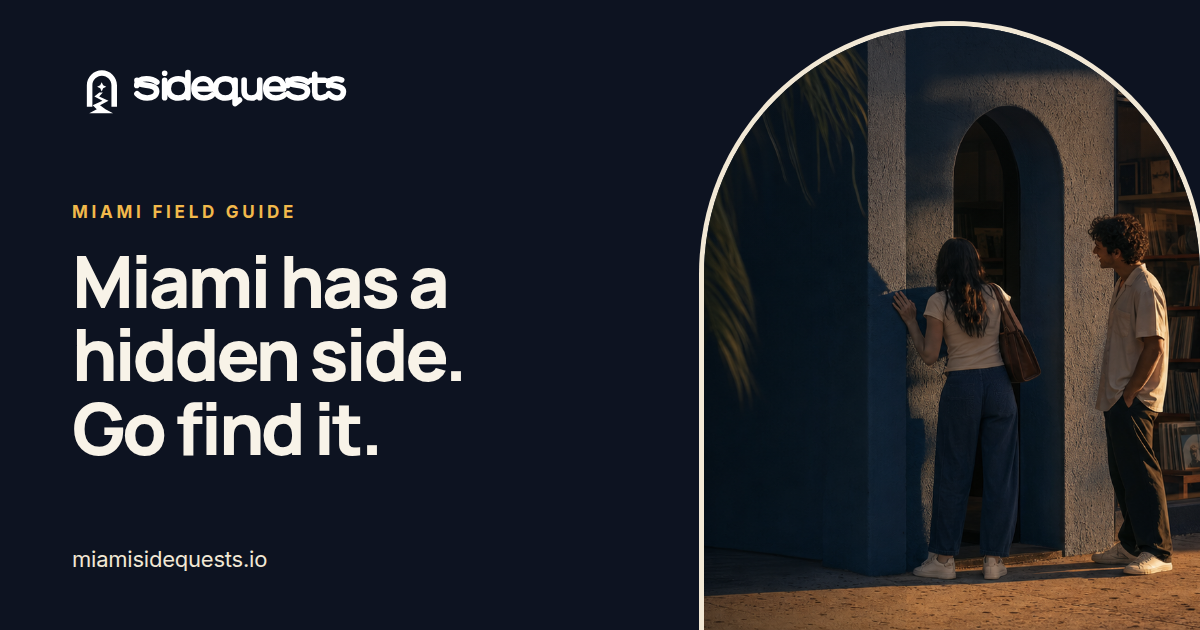
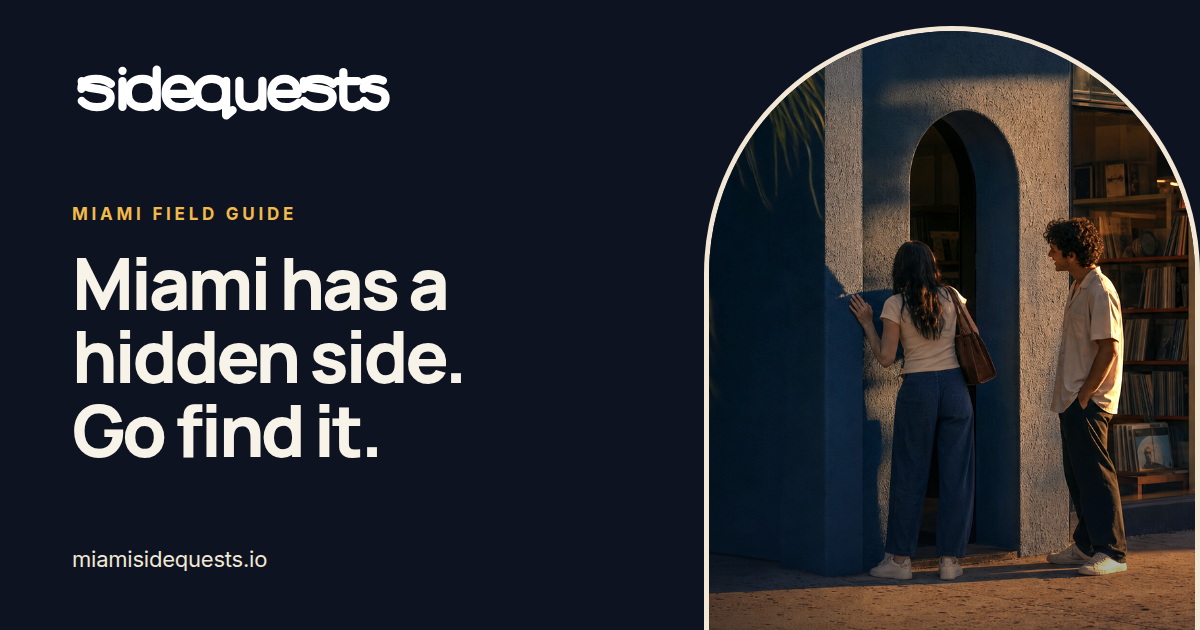
Fix the OG card, a clipped wordmark, and the missed small-size marks
The OG card shipped in the previous commit had several defects that only show
under scrutiny:

- The doorway mark rendered at ~30px in the lockup, where its winding path
  collapses into a smudge. Testing the mark at 30/44/58/90px in both positive
  and reverse shows it needs ~90px to resolve — this is a limit of the artwork,
  not of the card, so scaling up inside a lockup does not fix it. The card now
  uses the wordmark alone: recognition on a social card lives in the wordmark,
  and it reproduces cleanly at any size.
- The arch's cream outline used a box-shadow spread, which cannot follow a
  border-radius that the canvas edge clips, so it rendered as a flat vertical
  stripe down the left rather than tracing the arch. Now a real border.
- The photo crop bisected the right-hand figure, and its dark left third sank
  into the navy background with no separation. Now a lifted 68% crop with both
  figures whole and the doorway centred; the vignette moved to the base, which
  is the lit end, instead of the crown.
- The headline's three-line wrap was a coincidence of a `ch`-based measure — any
  copy edit re-wrapped it unpredictably. Now explicit line breaks.
- Three elements floated in a 1fr gap. Now an explicit three-row rhythm.
- The generator silently emitted a blank panel if an OG source was missing. It
  now fails loudly.

Also fixes two things this surfaced:

- brand/logos/wordmark.svg clipped its final "s": the ink runs to x=1076 but the
[…]

diff --git a/scripts/brand/og-image.html b/scripts/brand/og-image.html
@@ -18,14 +18,24 @@
   /* ── Left: brand + message ─────────────────────────────────────────── */
   .copy {
     display: grid;
+    /* An explicit rhythm. The wordmark sits on a baseline near the top, the
+       message block owns the middle, the domain closes it out — rather than
+       three things floating in a 1fr gap. */
     grid-template-rows: auto 1fr auto;
-    padding: 64px 40px 58px 72px;
+    row-gap: 44px;
+    padding: 62px 40px 58px 72px;
   }
 
-  .message { align-self: center; }
+  /*
+   * The wordmark alone, no doorway mark.
+   * The mark's winding path needs ~90px to resolve — at the ~30px a lockup
+   * gives it here it collapses into a smudge. On a social card recognition
+   * lives in the wordmark anyway, so this is the treatment that reproduces
+   * cleanly. See brand/README.md on mark-vs-lockup usage.
+   */
+  .wordmark { height: 62px; width: auto; display: block; }
 
-  .lockup { height: 56px; }
-  .lockup img { height: 100%; width: auto; display: block; }
+  .message { align-self: center; }
 
   .overline {
     color: #F2B94B;
@@ -43,10 +53,13 @@
     line-height: 1.02;
     letter-spacing: -0.045em;
     color: #F8F3E8;
-    max-width: 9.2ch;
+    /* Explicit breaks. A `ch`-based max-width made the three-line wrap a
+       coincidence of the measure — any copy edit re-wrapped it unpredictably. */
+    text-wrap: nowrap;
   }
 
   .domain {
+    align-self: end;
     color: #F2E8D5;
     font-size: 22px;
     font-weight: 500;
@@ -56,34 +69,42 @@
   /* ── Right: arched doorway photo, bleeding off the canvas edge ──────── */
   .arch {
     position: relative;
-    margin: 26px -0px -0px 0;
+    margin-top: 26px;
+    /* A real border, not a box-shadow spread: a spread can't follow a
+       border-radius that the canvas edge clips, so it rendered as a flat
+       cream stripe down the left side instead of tracing the arch. */
+    border: 5px solid #F2E8D5;
+    border-bottom: 0;
     border-radius: 248px 248px 0 0;
     overflow: hidden;
     background: #26344C;
-    box-shadow: 0 0 0 5px #F2E8D5;
   }
   .arch img {
     width: 100%;
     height: 100%;
     object-fit: cover;
-    object-position: 62% 46%;
+    /* Both figures whole, doorway centred — 50% bisected the right-hand one. */
+    object-position: 68% 46%;
     display: block;
+    /* The source frame is dusk-dark on its left third, which sank into the
+       navy background and lost the arch silhouette. */
+    filter: brightness(1.28) contrast(1.04) saturate(1.06);
   }
-  /* Warm the photo toward the brand and keep the arch reading as a doorway. */
+  /* Vignette the base, not the crown — the crown was already the dark end. */
   .arch::after {
     content: "";
     position: absolute;
     inset: 0;
-    background: linear-gradient(180deg, rgba(13,19,33,0.30) 0%, rgba(13,19,33,0) 42%);
+    background: linear-gradient(0deg, rgba(13,19,33,0.45) 0%, rgba(13,19,33,0) 38%);
   }
 </style>
 </head>
 <body>
   <div class="copy">
-    <div class="lockup"><img src="./logo-reverse.svg" alt="sidequests" /></div>
+    <img class="wordmark" src="./wordmark-reverse.svg" alt="sidequests" />
     <div class="message">
       <p class="overline">Miami Field Guide</p>
-      <h1>Miami has a hidden side. Go find it.</h1>
+      <h1>Miami has a<br />hidden side.<br />Go find it.</h1>
     </div>
     <p class="domain">miamisidequests.io</p>
   </div>

diff --git a/docs/engineering/CHANGELOG.md b/docs/engineering/CHANGELOG.md
@@ -42,6 +42,24 @@ All notable changes to the SideQuests.io project are recorded here. This log tra
 - Removed obsolete duplicates: `brand/favicon/` (a stale parallel icon set with its own manifest,
   referenced by nothing), `public/site 2.webmanifest`, `src/components/BackendFallbackBanner 2.tsx`,
   and the ` 2` copies of the brand docs. Off-palette "achievement Violet" is gone from the brand docs.
+- **OG card fixes (follow-up within the same migration).** The first pass shipped a card with
+  several defects: the doorway mark rendered at ~30px in the lockup, where its winding path
+  collapses into a smudge (the mark needs ~90px to resolve, in both positive and reverse); the
+  arch's cream outline used a `box-shadow` spread, which cannot follow a border-radius the canvas
+  clips and so rendered as a flat vertical stripe; the photo crop bisected the right-hand figure and
+  its dark side sank into the navy background; the headline's three-line wrap was a coincidence of a
+  `ch`-based measure; and the layout left a dead gap between the wordmark and the overline. The card
+  now uses the **wordmark alone** (recognition on a social card lives in the wordmark, and it
+  reproduces cleanly at any size), a real `border` that traces the arch, a lifted 68% crop with both
+  figures whole, explicit line breaks, and an explicit three-row rhythm. The generator now fails
+  loudly if an OG source file is missing instead of emitting a blank panel.
+- Fixed a pre-existing clip in `brand/logos/wordmark.svg`: its ink runs to x=1076 but the viewBox was
+  1050 wide, cutting 26 units off the final "s". Never visible before because nothing rendered the
+  wordmark standalone — the app uses `logo-horizontal.svg`. Widened to 1094 and added
+  `wordmark-reverse.svg` for dark surfaces.
+- `brand/logos/icon-small.svg` and `logo-small.svg` (the 16–24px reduced-detail variants) were missed
+  by the glyph redraw because they live in a 24-unit space rather than the 64-unit one the
+  replacement matched. Ported, so the whole kit now carries one glyph.
 - Verification: `npx tsc -p tsconfig.app.json --noEmit` clean; production build passes; `npm run lint`
   unchanged from baseline (36 pre-existing problems, none in the migrated code). Ten routes were
   screenshotted at 1440 px and 390 px against a local production build. No schema, RPC, auth, routing
